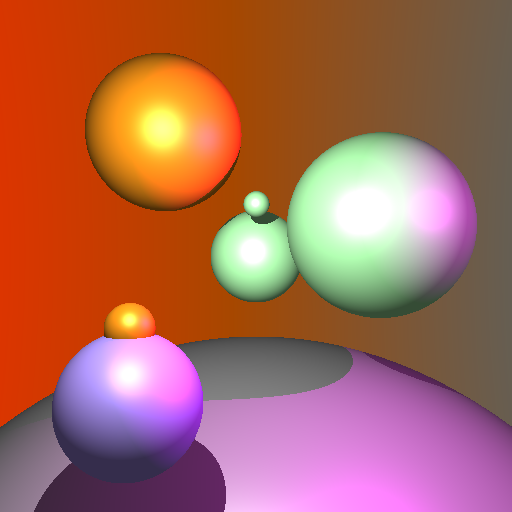
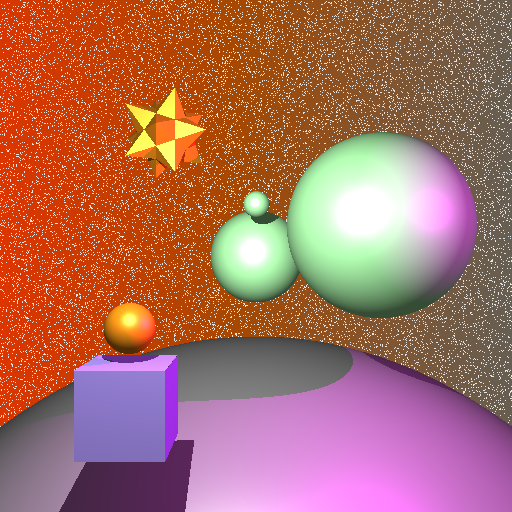
A4: Assignment complete

diff --git a/GeometryNode.cpp b/GeometryNode.cpp
@@ -27,3 +27,43 @@ void GeometryNode::setMaterial( Material *mat )
 
 	m_material = mat;
 }
+
+bool GeometryNode::isHit(RayTracer & ray,float t0Float,float t1Float, HitRecord &record ) {
+	// Get Local Transformation
+	RayTracer localRay;
+	const vec3 localRayOriginVec = vec3(get_inverse() *vec4(ray.getOrigin(),1.0f));
+	localRay.setOrigin(localRayOriginVec);
+	const vec3 localRayDirVec = vec3(get_inverse() * vec4(ray.getDirection(),0.0f));
+	localRay.setDirection(localRayDirVec);
+
+	HitRecord localRecord;
+	localRecord.material = NULL;
+	bool hit  = false;
+	
+	// Check if mesh attribute hits and update closest position
+	if(m_primitive->isHit(localRay,t0Float,t1Float, localRecord)){
+		localRecord.material = m_material;
+		hit = true;
+		// Max t updated to find element closest to screen
+		t1Float = localRecord.t; 
+		// Updated Max t and record Material updating record
+		record = localRecord;
+	}
+
+	// recursive  call
+	if (SceneNode::isHit(localRay,t0Float,t1Float, localRecord)){
+		hit = true;
+		// Max t updated to find element closest to screen
+		t1Float = localRecord.t; 
+		// Updated Max t and record Material updating record
+		record = localRecord;
+	}
+
+	if (hit){
+		// Restore transformation
+		record.normalVec = mat3(transpose(get_inverse())) * record.normalVec;
+		record.hitPointVec = vec3(get_transform() * vec4(record.hitPointVec,1.0f));
+	}
+	
+	return hit;
+}

diff --git a/Mesh.cpp b/Mesh.cpp
@@ -121,7 +121,7 @@ bool Mesh::isHit(RayTracer & ray,float t0Float,float t1Float, HitRecord &record 
 		// loop through vertices
 		// find min across x,y,z 
 		// use that to find the center
-		// regular sphere shit from there
+		// regular nh_sphere steps from there
 		vec3 minVec = m_vertices[0];
 		vec3 maxVec = m_vertices[0];
 		
@@ -180,8 +180,7 @@ bool Mesh::isHit(RayTracer & ray,float t0Float,float t1Float, HitRecord &record 
 	for (auto face: m_faces){
 		float potT1Float = 0.0f;
 		// Check for intersection with face
-		if (isTriangleIntersection(ray, m_vertices[face.v1], m_vertices[face.v2], m_vertices[face.v3], potT1Float,t0Float,t1Float)){
-			// TODO: Print potT1Float, be sure it is changing
+		if (isTriangleIntersection(ray, m_vertices[face.v1], m_vertices[face.v2], m_vertices[face.v3], potT1Float,t0Float,newT1float)){
 			// cout<< "potT1float = " << potT1Float<< endl;
 			hit = true;
 			newT1float = potT1Float;
@@ -197,7 +196,7 @@ bool Mesh::isHit(RayTracer & ray,float t0Float,float t1Float, HitRecord &record 
 		// cout << "Mesh::isHit() left false" << endl;
 		return false;
 	}
-
+	// Flipping the normals
 	if (dot(ray.getDirection(),normalVec)> 0){
 		normalVec = -normalVec;
 	}

diff --git a/SceneNode.cpp b/SceneNode.cpp
@@ -155,8 +155,8 @@ bool SceneNode::isHit(RayTracer & ray,float t0Float,float t1Float, HitRecord &re
 	for (SceneNode* child : children){
 		bool checkHit = false;
 		if(child->m_nodeType == NodeType::GeometryNode){
-			const GeometryNode * geometryNode = static_cast<const GeometryNode *>(child);
-			checkHit = geometryNode->m_primitive->isHit(localRay,t0Float,t1Float, localRecord);
+			GeometryNode * geometryNode = static_cast<GeometryNode *>(child);
+			checkHit = geometryNode->isHit(localRay,t0Float,t1Float, localRecord);
 			// Update record material for use in rendering
 			localRecord.material = geometryNode->m_material;
 		}else{

diff --git a/Primitive.cpp b/Primitive.cpp
@@ -25,9 +25,19 @@ bool Primitive::isHit(RayTracer & ray,float t0Float,float t1Float, HitRecord &re
 Sphere::~Sphere()
 {
 }
+bool Sphere::isHit(RayTracer & ray,float t0Float,float t1Float, HitRecord &record ){
+    auto nh_sphere = new NonhierSphere(vec3(0.0,0.0,0.0),1.0);
+    return nh_sphere->isHit(ray,t0Float,t1Float,record );
+
+}
 
 Cube::~Cube()
 {
+}
+
+bool Cube::isHit(RayTracer & ray,float t0Float,float t1Float, HitRecord &record ){
+    auto nh_cube = new NonhierBox(vec3(0.0,0.0,0.0),1.0);
+    return nh_cube->isHit(ray,t0Float,t1Float,record );
 }
 
 NonhierSphere::~NonhierSphere()

diff --git a/Primitive.hpp b/Primitive.hpp
@@ -19,11 +19,13 @@ public:
 class Sphere : public Primitive {
 public:
   virtual ~Sphere();
+  virtual bool isHit(RayTracer & ray,float t0Float,float t1Float, HitRecord &record ) override;
 };
 
 class Cube : public Primitive {
 public:
   virtual ~Cube();
+  virtual bool isHit(RayTracer & ray,float t0Float,float t1Float, HitRecord &record ) override;
 };
 
 class NonhierSphere : public Primitive {

diff --git a/A4.cpp b/A4.cpp
@@ -94,6 +94,9 @@ vec3 rayTraceRGB(
 		// Background color is left to right gradient
 		returnColor = (1 - unitDirVec.x) * vec3(161.0f/MAX_RGB,74.0f/MAX_RGB,8.0f/MAX_RGB) +
 					   unitDirVec.x * vec3(20.0f/MAX_RGB,123.0f/MAX_RGB,186.0f/MAX_RGB) ;
+		if(rand_float() < 0.1){
+			returnColor = vec3(0.9,0.9,0.9);
+		}
 			   
 	}
 	return returnColor;

diff --git a/GeometryNode.hpp b/GeometryNode.hpp
@@ -16,6 +16,6 @@ public:
 	Material *m_material;
 	Primitive *m_primitive;
 	// TODO: define hit for geometry node
-	// virtual bool isHit(RayTracer & ray,float t0Float,float t1Float, HitRecord &record ) override;
+	virtual bool isHit(RayTracer & ray,float t0Float,float t1Float, HitRecord &record ) override;
   
 };

diff --git a/Mesh.hpp b/Mesh.hpp
@@ -14,7 +14,7 @@
 // Use this #define to selectively compile your code to render the
 // bounding boxes around your mesh objects. Uncomment this option
 // to turn it on.
-#define RENDER_BOUNDING_VOLUMES 1
+#define RENDER_BOUNDING_VOLUMES 0
 
 struct Triangle
 {
